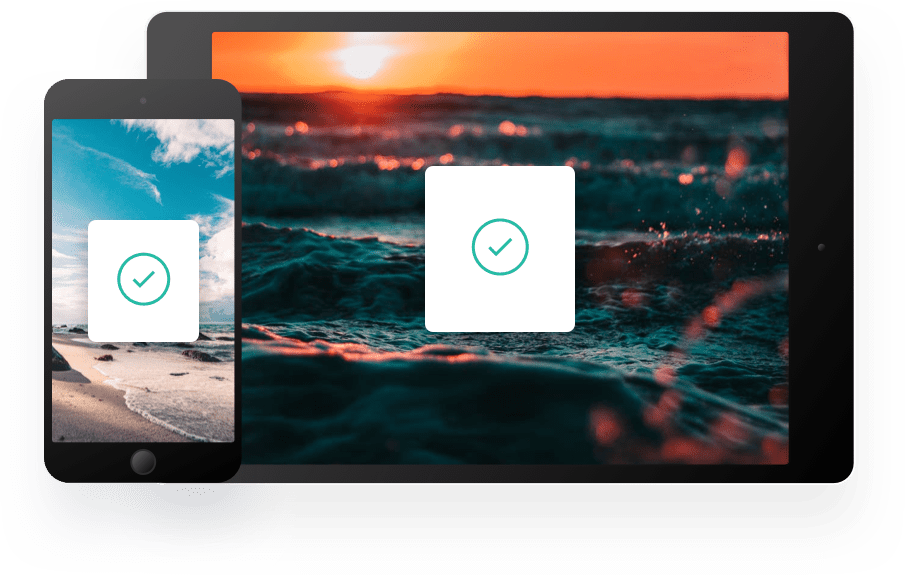
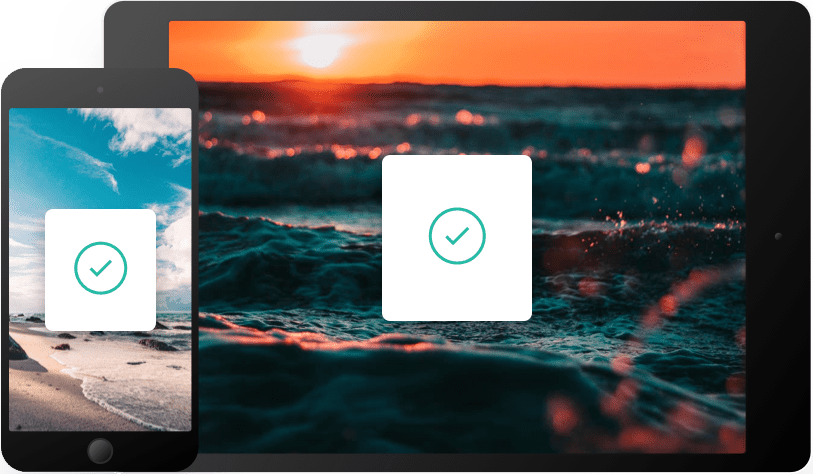
Fixes mobile

diff --git a/index.html b/index.html
@@ -23,108 +23,114 @@
     <img class="object-cover w-full" src="./images/bg-header-desktop.png" alt=" "/>
   </picture>
 </div>
-<main class="relative pt-28 px-6 space-y-32 md:px-0">
-  <section class="grid items-center">
-    <img class="mx-auto mb-12" src="./images/logo.svg" alt="clipboard logo">
-    <h1 class="text-center font-semibold text-dark-gray-blue text-3xl">A history of everything you copy</h1>
-    <p class="text-center pt-6 pb-16 md:max-w-prose md:mx-auto">Clipboard allows you to track and organize everything you
+<main class="relative pt-28 px-8 md:px-0">
+  <section class="mt-40 grid items-center mt-3">
+    <img class="mx-auto mb-16" src="./images/logo.svg" alt="clipboard logo">
+    <h1 class="text-center font-semibold text-dark-gray-blue text-3.5xl">A history of everything you copy</h1>
+    <p class="text-center px-0.5 pt-4 pb-12 leading-relaxed md:max-w-prose md:mx-auto">Clipboard allows you to track and organize everything you
   copy. Instantly access your clipboard on all your devices.</p>
     <section class="space-y-6 md:flex md:space-y-0 md:gap-4 md:items-center md:justify-center md:max-w-prose md:mx-auto">
-      <button class="rounded-full border-b-2 border-dark-cyan shadow-lg shadow-cyan/50 bg-cyan w-full px-3 py-2 text-white font-semibold whitespace-nowrap hover:bg-opacity-80 transition ease-out duration-150">Download for iOS</button>
-      <button class="rounded-full border-b-2 border-dark-blue shadow-lg shadow-blue/50 bg-blue w-full px-3 py-2 text-white font-semibold whitespace-nowrap hover:bg-opacity-80 transition ease-out duration-150">Download for Mac</button>
+      <button class="rounded-full border-b-3 border-dark-cyan shadow-xl shadow-cyan/20 bg-cyan w-full px-3 pt-3.5 pb-3 text-lg leading-normal tracking-wide text-white font-semibold whitespace-nowrap hover:bg-opacity-80 transition ease-out duration-150">Download for iOS</button>
+      <button class="rounded-full border-b-3 border-dark-blue shadow-xl shadow-blue/20 bg-blue w-full px-3 pt-3.5 pb-3 text-lg leading-normal tracking-wide text-white font-semibold whitespace-nowrap hover:bg-opacity-80 transition ease-out duration-150">Download for Mac</button>
     </section>
   </section>
-  <section>
-    <h2 class="font-semibold text-dark-gray-blue text-center text-2xl">Keep track of your snippets</h2>
-    <p class="text-center pt-6 pb-16 md:max-w-prose md:mx-auto">Clipboard instantly stores any item you copy in the cloud,
+  <section class="mt-40">
+    <h2 class="font-semibold text-dark-gray-blue text-center text-2.5xl">Keep track of your snippets</h2>
+    <p class="text-center px-0.5 pt-4 pb-16 leading-relaxed md:max-w-prose md:mx-auto">Clipboard instantly stores any item you copy in the cloud,
   meaning you can access your snippets immediately on all your
   devices. Our Mac and iOS apps will help you organize everything.</p>
-    <section class="grid md:grid-cols-2 gap-12">
+    <section class="grid gap-14 md:grid-cols-2 md:gap-12">
       <img class="mx-auto md:-ml-8" src="./images/image-computer.png" alt=" ">
-      <ul class="space-y-6 mt-16 md:max-w-sm">
+      <ul class="space-y-12 md:max-w-sm">
         <li>
-          <h3 class="font-semibold text-dark-gray-blue text-center text-xl md:text-start">Quick Search</h3>
-          <p class="text-center pt-4 md:text-start">Easily search your snippets by content, category, web address, application, and more.</p>
+          <h3 class="font-semibold text-dark-gray-blue text-center text-1.5xl md:text-start">Quick Search</h3>
+          <p class="text-center pt-2 px-0.5 leading-relaxed md:text-start">Easily search your snippets by content, category, web address, application, and more.</p>
         </li>
         <li>
-          <h3 class="font-semibold text-dark-gray-blue text-center text-xl md:text-start">iCloud Sync</h3>
-          <p class="text-center pt-4 md:text-start">Instantly saves and syncs snippets across all your devices.</p>
+          <h3 class="font-semibold text-dark-gray-blue text-center text-1.5xl md:text-start">iCloud Sync</h3>
+          <p class="text-center pt-2 px-0.5 leading-relaxed md:text-start">Instantly saves and syncs snippets across all your devices.</p>
         </li>
         <li>
-          <h3 class="font-semibold text-dark-gray-blue text-center text-xl md:text-start">Complete History</h3>
-          <p class="text-center pt-4 md:text-start">Retrieve any snippets from the first moment you started using the app.</p>
+          <h3 class="font-semibold text-dark-gray-blue text-center text-1.5xl md:text-start">Complete History</h3>
+          <p class="text-center pt-2 px-0.5 leading-relaxed md:text-start">Retrieve any snippets from the first moment you started using the app.</p>
         </li>
       </ul>
     </section>
   </section>
-  <section>
-    <h2 class="font-semibold text-dark-gray-blue text-center text-2xl">Access Clipboard anywhere</h2>
-    <p class="text-center pt-6 pb-16 md:max-w-prose md:mx-auto">Whether you’re on the go, or at your computer, you can access all your Clipboard
+  <section class="mt-40 pt-6">
+    <h2 class="font-semibold text-dark-gray-blue text-center text-2.5xl">Access Clipboard Anywhere</h2>
+    <p class="text-center px-0.5 pt-4 pb-16 leading-relaxed md:max-w-prose md:mx-auto">Whether you’re on the go, or at your computer, you can access all your Clipboard
   snippets in a few simple clicks.</p>
-    <img class="mx-auto" src="./images/image-devices.png" alt=" ">
+    <img class="sm:mx-auto" src="./images/image-devices.png" alt=" ">
   </section>
-  <section>
-    <h2 class="font-semibold text-dark-gray-blue text-center text-2xl">Supercharge your workflow</h2>
-    <p class="text-center pt-6 pb-16">We’ve got the tools to boost your productivity.</p>
-    <ul class="space-y-12 md:space-y-0 md:flex md:gap-6 md:mx-auto md:max-w-6xl">
-      <li class="space-y-6">
-        <img class="mx-auto" src="./images/icon-blacklist.svg" alt=" ">
-        <h3 class="font-semibold text-dark-gray-blue text-center">Create blacklists</h3>
-        <p class="text-center">Ensure sensitive information never makes its way to your clipboard by excluding certain sources.</p>
+  <section class="mt-32 pt-1">
+    <h2 class="font-semibold text-dark-gray-blue text-center text-2.5xl">Supercharge your workflow</h2>
+    <p class="text-center px-0.5 pt-3 pb-12 leading-relaxed md:max-w-prose md:mx-auto">We’ve got the tools to boost your productivity.</p>
+    <ul class="space-y-14 mt-10 md:space-y-0 md:flex md:gap-6 md:mx-auto md:max-w-6xl">
+      <li>
+        <div class="mx-auto mb-10 grid place-content-center">
+          <img src="./images/icon-blacklist.svg" alt=" ">
+        </div>
+        <h3 class="font-semibold text-dark-gray-blue text-center text-1.5xl">Create blacklists</h3>
+        <p class="text-center pt-4 px-0.5 leading-relaxed md:text-start">Ensure sensitive information never makes its way to your clipboard by excluding certain sources.</p>
       </li>
-      <li class="space-y-6">
-        <img class="mx-auto" src="./images/icon-text.svg" alt=" ">
-        <h3 class="font-semibold text-dark-gray-blue text-center">Plain text snippets</h3>
-        <p class="text-center">Remove unwanted formatting from copied text for a consistent look.</p>
+      <li>
+        <div class="mx-auto mb-10 grid place-content-center">
+          <img src="./images/icon-text.svg" alt=" ">
+        </div>
+        <h3 class="font-semibold text-dark-gray-blue text-center text-1.5xl">Plain text snippets</h3>
+        <p class="text-center pt-4 px-0.5 leading-relaxed md:text-start">Remove unwanted formatting from copied text for a consistent look.</p>
       </li>
-      <li class="space-y-6">
-        <img class="mx-auto" src="./images/icon-preview.svg" alt=" ">
-        <h3 class="font-semibold text-dark-gray-blue text-center">Sneak preview</h3>
-        <p class="text-center">Quick preview of all snippets on your Clipboard for easy access.</p>
+      <li>
+        <div class="mx-auto mb-10 grid place-content-center">
+          <img src="./images/icon-preview.svg" alt=" ">
+        </div>
+        <h3 class="font-semibold text-dark-gray-blue text-center text-1.5xl">Sneak preview</h3>
+        <p class="text-center pt-4 px-0.5 leading-relaxed md:text-start">Quick preview of all snippets on your Clipboard for easy access.</p>
       </li>
     </ul>
   </section>
-  <section>
-    <ul class="grid gap-12 place-items-center md:flex md:justify-between md:gap-6 md:mx-auto md:max-w-6xl">
-      <li>
+  <section class="mt-32">
+    <ul class="grid gap-14 place-items-center md:flex md:justify-between md:gap-6 md:mx-auto md:max-w-6xl">
+      <li class="w-[45%]">
         <img src="./images/logo-google.png" alt="google">
       </li>
-      <li>
+      <li class="w-[45%]">
         <img src="./images/logo-ibm.png" alt="IBM">
       </li>
-      <li>
+      <li class="w-[45%]">
         <img src="./images/logo-microsoft.png" alt="Microsoft">
       </li>
-      <li>
+      <li class="w-[45%]">
         <img src="./images/logo-hp.png" alt="Hewlett Packard Enterprise">
       </li>
-      <li>
+      <li class="w-[45%]">
         <img src="./images/logo-vector-graphics.png" alt="Vector Graphics">
       </li>
     </ul>
   </section>
-  <section>
-    <h2 class="text-center font-semibold text-dark-gray-blue text-2xl">Clipboard for iOS and Mac OS</h2>
-    <p class="text-center pt-6 pb-16 md:max-w-prose md:mx-auto">Available for free on the App Store. Download for Mac or iOS, sync with iCloud
+  <section class="mt-40">
+    <h2 class="text-center font-semibold text-dark-gray-blue text-2.5xl">Clipboard for iOS and Mac OS</h2>
+    <p class="text-center px-0.5 pt-4 pb-12 leading-relaxed md:max-w-prose md:mx-auto">Available for free on the App Store. Download for Mac or iOS, sync with iCloud
   and you’re ready to start adding to your clipboard.</p>
     <section class="space-y-6 md:flex md:space-y-0 md:gap-4 md:items-center md:justify-center md:max-w-prose md:mx-auto">
-      <button class="rounded-full border-b-2 border-dark-cyan shadow-lg shadow-cyan/50 bg-cyan w-full px-3 py-2 text-white font-semibold whitespace-nowrap hover:bg-opacity-80 transition ease-out duration-150">Download for iOS</button>
-      <button class="rounded-full border-b-2 border-dark-blue shadow-lg shadow-blue/50 bg-blue w-full px-3 py-2 text-white font-semibold whitespace-nowrap hover:bg-opacity-80 transition ease-out duration-150">Download for Mac</button>
+      <button class="rounded-full border-b-3 border-dark-cyan shadow-xl shadow-cyan/20 bg-cyan w-full px-3 pt-3.5 pb-3 text-lg leading-normal tracking-wide text-white font-semibold whitespace-nowrap hover:bg-opacity-80 transition ease-out duration-150">Download for iOS</button>
+      <button class="rounded-full border-b-3 border-dark-blue shadow-xl shadow-blue/20 bg-blue w-full px-3 pt-3.5 pb-3 text-lg leading-normal tracking-wide text-white font-semibold whitespace-nowrap hover:bg-opacity-80 transition ease-out duration-150">Download for Mac</button>
     </section>
   </section>
 </main>
 
 <footer class="bg-gray-blue/10 text-dark-gray-blue py-12 mt-24">
-  <section class="grid gap-10 md:grid-cols-12 md:gap-6 md:items-center">
+  <section class="grid gap-12 md:grid-cols-12 md:gap-6 md:items-center">
     <img class="mx-auto w-12 md:col-start-2 md:col-span-2" src="./images/logo.svg" alt="clipboad logo">
     <ul class="grid gap-6 text-center md:col-start-4 md:col-span-7 md:grid-cols-3 md:grid-rows-2 md:grid-flow-col md:text-start">
-      <li><a class="hover:text-cyan transition ease-out duration-150" href="#">FAQs</a></li>
-      <li><a class="hover:text-cyan transition ease-out duration-150" href="#">Contact Us</a></li>
-      <li><a class="hover:text-cyan transition ease-out duration-150" href="#">Privacy Policy</a></li>
-      <li><a class="hover:text-cyan transition ease-out duration-150" href="#">Press Kit</a></li>
-      <li><a class="hover:text-cyan transition ease-out duration-150" href="#">Install Guide</a></li>
+      <li><a class="text-lg hover:text-cyan transition ease-out duration-150" href="#">FAQs</a></li>
+      <li><a class="text-lg hover:text-cyan transition ease-out duration-150" href="#">Contact Us</a></li>
+      <li><a class="text-lg hover:text-cyan transition ease-out duration-150" href="#">Privacy Policy</a></li>
+      <li><a class="text-lg hover:text-cyan transition ease-out duration-150" href="#">Press Kit</a></li>
+      <li><a class="text-lg hover:text-cyan transition ease-out duration-150" href="#">Install Guide</a></li>
     </ul>
-    <ul class="flex justify-center gap-12 items-center md:col-start-11 md:col-span-1 md:gap-4">
+    <ul class="flex justify-center gap-10 items-center md:col-start-11 md:col-span-1 md:gap-4">
       <li class="md:shrink-0"><a class="hover:text-cyan transition ease-out duration-150" href="#"><img src="./images/icon-facebook.svg" alt="clipboard facebook"></a></li>
       <li class="md:shrink-0"><a class="hover:text-cyan transition ease-out duration-150" href="#"><img src="./images/icon-twitter.svg" alt="clipboard twitter"></a></li>
       <li class="md:shrink-0"><a class="hover:text-cyan transition ease-out duration-150" href="#"><img src="./images/icon-instagram.svg" alt="clipboard instagram"></a></li>

diff --git a/src/tailwind.config.js b/src/tailwind.config.js
@@ -12,6 +12,14 @@ tailwind.config = {
 				'dark-gray-blue': 'hsl(210, 10%, 33%)',
 				'gray-blue': 'hsl(201, 11%, 66%)',
 			},
+			borderWidth: {
+				'3': '3px'
+			},
+			fontSize: {
+				'1.5xl': ['1.45rem', {lineHeight: '2rem'}],
+				'2.5xl': ['1.675rem', {lineHeight: '2.25rem'}],
+				'3.5xl': ['1.95rem', {lineHeight: '2.5rem'}],
+			}
 		}
 	}
 }
